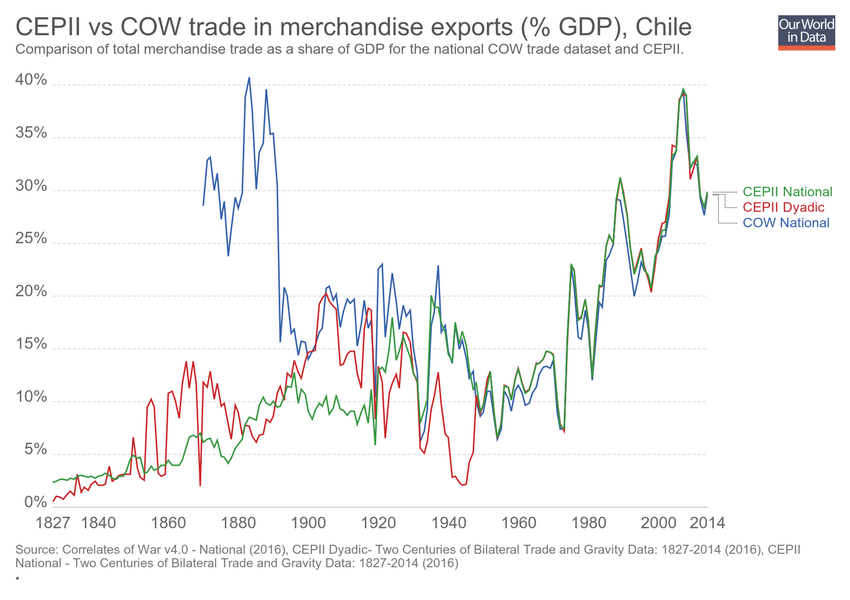
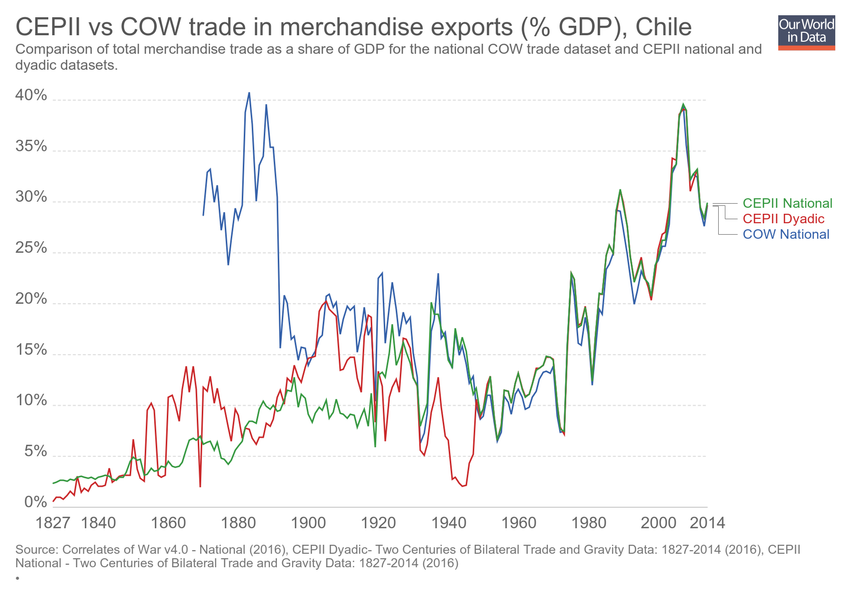
Updating chart cepii-vs-cow-trade-in-merchandise-exports-gdp

diff --git a/grapher/cepii-vs-cow-trade-in-merchandise-exports-gdp.html b/grapher/cepii-vs-cow-trade-in-merchandise-exports-gdp.html
@@ -1,4 +1,4 @@
-<!doctype html><html><head><meta name="viewport" content="width=device-width, initial-scale=1" /><title>CEPII vs COW trade in merchandise exports (% GDP) - Our World in Data</title><meta name="description" content="Comparison of total merchandise trade as a share of GDP for the national COW trade dataset and CEPII." /><link rel="canonical" href="https://ourworldindata.org/grapher/cepii-vs-cow-trade-in-merchandise-exports-gdp" /><meta property="fb:app_id" content="1149943818390250" /><meta property="og:url" content="https://ourworldindata.org/grapher/cepii-vs-cow-trade-in-merchandise-exports-gdp" /><meta property="og:title" content="CEPII vs COW trade in merchandise exports (% GDP)" /><meta property="og:description" content="Comparison of total merchandise trade as a share of GDP for the national COW trade dataset and CEPII." /><meta property="og:image" content="https://ourworldindata.org/grapher/exports/cepii-vs-cow-trade-in-merchandise-exports-gdp.png?v=2" /><meta property="og:image:width" content="850" /><meta property="og:image:height" content="600" /><meta property="og:site_name" content="Our World in Data" /><meta name="twitter:card" content="summary_large_image" /><meta name="twitter:site" content="@OurWorldInData" /><meta name="twitter:creator" content="@OurWorldInData" /><meta name="twitter:title" content="CEPII vs COW trade in merchandise exports (% GDP)" /><meta name="twitter:description" content="Comparison of total merchandise trade as a share of GDP for the national COW trade dataset and CEPII." /><meta name="twitter:image" content="https://ourworldindata.org/grapher/exports/cepii-vs-cow-trade-in-merchandise-exports-gdp.png?v=2" /><style>
+<!doctype html><html><head><meta name="viewport" content="width=device-width, initial-scale=1" /><title>CEPII vs COW trade in merchandise exports (% GDP) - Our World in Data</title><meta name="description" content="Comparison of total merchandise trade as a share of GDP for the national COW trade dataset and CEPII national and dyadic datasets." /><link rel="canonical" href="https://ourworldindata.org/grapher/cepii-vs-cow-trade-in-merchandise-exports-gdp" /><meta property="fb:app_id" content="1149943818390250" /><meta property="og:url" content="https://ourworldindata.org/grapher/cepii-vs-cow-trade-in-merchandise-exports-gdp" /><meta property="og:title" content="CEPII vs COW trade in merchandise exports (% GDP)" /><meta property="og:description" content="Comparison of total merchandise trade as a share of GDP for the national COW trade dataset and CEPII national and dyadic datasets." /><meta property="og:image" content="https://ourworldindata.org/grapher/exports/cepii-vs-cow-trade-in-merchandise-exports-gdp.png?v=3" /><meta property="og:image:width" content="850" /><meta property="og:image:height" content="600" /><meta property="og:site_name" content="Our World in Data" /><meta name="twitter:card" content="summary_large_image" /><meta name="twitter:site" content="@OurWorldInData" /><meta name="twitter:creator" content="@OurWorldInData" /><meta name="twitter:title" content="CEPII vs COW trade in merchandise exports (% GDP)" /><meta name="twitter:description" content="Comparison of total merchandise trade as a share of GDP for the national COW trade dataset and CEPII national and dyadic datasets." /><meta name="twitter:image" content="https://ourworldindata.org/grapher/exports/cepii-vs-cow-trade-in-merchandise-exports-gdp.png?v=3" /><style>
         html, body {
             height: 100%;
             margin: 0;
@@ -20,8 +20,8 @@
         }
     </style><noscript><style>
                     figure { display: none !important; }
-                </style></noscript><link rel="stylesheet" href="https://ourworldindata.org/grapher/assets/commons.bundle.dcbbe53805c487d5e57617b10ac73a8a.css" /><link rel="preload" href="/grapher/data/variables/85936+85798+97432.json?v=2" as="fetch" crossorigin /></head><body class="singleChart"><figure data-grapher-src="/grapher/cepii-vs-cow-trade-in-merchandise-exports-gdp"></figure><noscript id="fallback"><img src="/grapher/exports/cepii-vs-cow-trade-in-merchandise-exports-gdp.svg" /><p>Interactive visualization requires JavaScript</p></noscript><script src="https://cdn.polyfill.io/v2/polyfill.min.js?features=es6,fetch"></script><script src="https://ourworldindata.org/grapher/assets/commons.bundle.db4e4065dcbf33bcd3d7.js"></script><script src="https://ourworldindata.org/grapher/assets/charts.bundle.db4e4065dcbf33bcd3d7.js"></script><script>
-        var jsonConfig = {"id":2642,"map":{"projection":"World","colorSchemeLabels":[],"colorSchemeValues":[],"customNumericColors":[],"customCategoryColors":{},"customCategoryLabels":{},"customHiddenCategories":{}},"tab":"chart","slug":"cepii-vs-cow-trade-in-merchandise-exports-gdp","type":"LineChart","title":"CEPII vs COW trade in merchandise exports (% GDP)","xAxis":{"scaleType":"linear"},"yAxis":{"min":0,"scaleType":"linear"},"version":2,"subtitle":"Comparison of total merchandise trade as a share of GDP for the national COW trade dataset and CEPII.","hasMapTab":false,"stackMode":"absolute","dimensions":[{"display":{"name":"COW National","unit":"%"},"property":"y","variableId":85936},{"display":{"name":"CEPII Dyadic","unit":"%"},"property":"y","variableId":85798},{"display":{"name":"CEPII National ","unit":"%"},"property":"y","variableId":97432}],"hasChartTab":true,"isPublished":true,"selectedData":[{"index":0,"entityId":172},{"index":1,"entityId":172},{"index":2,"entityId":172}],"addCountryMode":"change-country"};
+                </style></noscript><link rel="stylesheet" href="https://ourworldindata.org/grapher/assets/commons.bundle.dcbbe53805c487d5e57617b10ac73a8a.css" /><link rel="preload" href="/grapher/data/variables/85936+85798+97432.json?v=3" as="fetch" crossorigin /></head><body class="singleChart"><figure data-grapher-src="/grapher/cepii-vs-cow-trade-in-merchandise-exports-gdp"></figure><noscript id="fallback"><img src="/grapher/exports/cepii-vs-cow-trade-in-merchandise-exports-gdp.svg" /><p>Interactive visualization requires JavaScript</p></noscript><script src="https://cdn.polyfill.io/v2/polyfill.min.js?features=es6,fetch"></script><script src="https://ourworldindata.org/grapher/assets/commons.bundle.db4e4065dcbf33bcd3d7.js"></script><script src="https://ourworldindata.org/grapher/assets/charts.bundle.db4e4065dcbf33bcd3d7.js"></script><script>
+        var jsonConfig = {"id":2642,"map":{"projection":"World","colorSchemeLabels":[],"colorSchemeValues":[],"customNumericColors":[],"customCategoryColors":{},"customCategoryLabels":{},"customHiddenCategories":{}},"tab":"chart","slug":"cepii-vs-cow-trade-in-merchandise-exports-gdp","type":"LineChart","title":"CEPII vs COW trade in merchandise exports (% GDP)","xAxis":{"scaleType":"linear"},"yAxis":{"min":0,"scaleType":"linear"},"version":3,"subtitle":"Comparison of total merchandise trade as a share of GDP for the national COW trade dataset and CEPII national and dyadic datasets.","hasMapTab":false,"stackMode":"absolute","dimensions":[{"display":{"name":"COW National","unit":"%"},"property":"y","variableId":85936},{"display":{"name":"CEPII Dyadic","unit":"%"},"property":"y","variableId":85798},{"display":{"name":"CEPII National ","unit":"%"},"property":"y","variableId":97432}],"hasChartTab":true,"isPublished":true,"selectedData":[{"index":0,"entityId":172},{"index":1,"entityId":172},{"index":2,"entityId":172}],"addCountryMode":"change-country"};
         var figure = document.getElementsByTagName("figure")[0];
         try {
             window.App = {};
